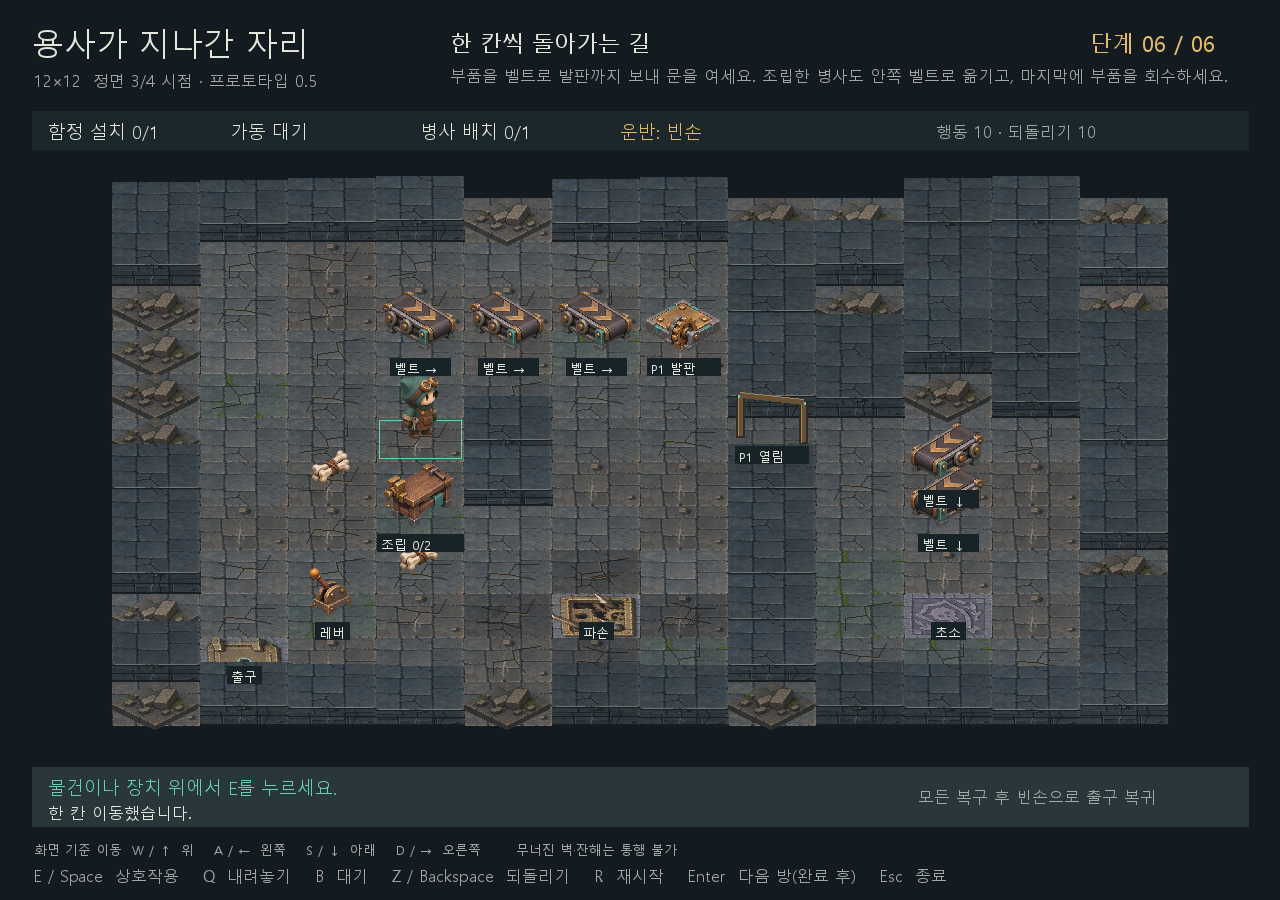
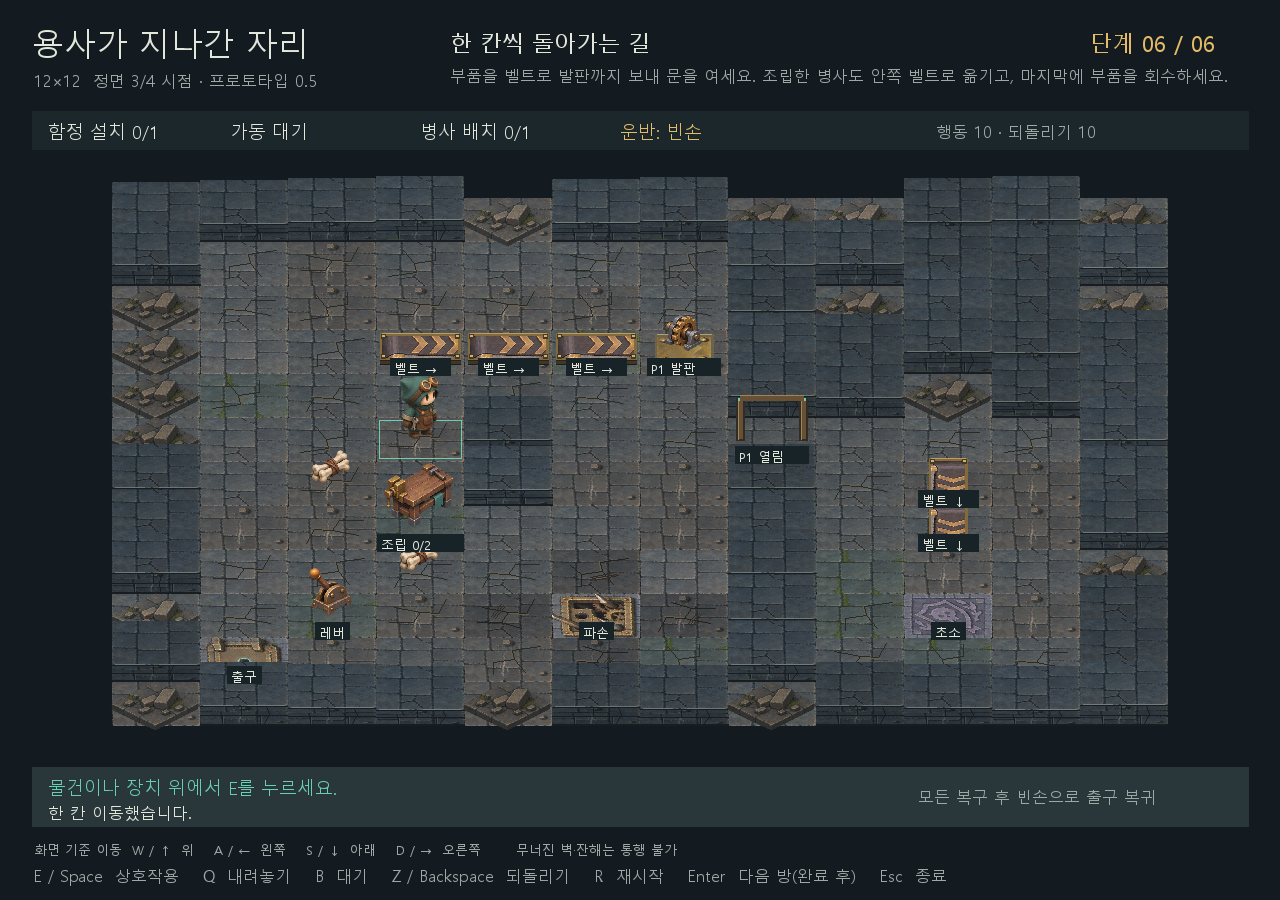
feat: align conveyor and plate surfaces with front-facing tiles

Changed region(s): [[0.2812, 0.3111, 0.5625, 0.4044], [0.6875, 0.4667, 0.7812, 0.5911], [0.5938, 0.4356, 0.625, 0.4667]]

diff --git a/game/devices_view.py b/game/devices_view.py
@@ -1,0 +1,71 @@
+"""기존 장치 상면을 정면 격자에 맞추는 표시 전용 부품."""
+
+
+BELT_SURFACE = ((164, 79), (206, 103), (84, 179), (40, 153))
+PLATE_SURFACE = ((128, 63), (203, 104), (128, 145), (52, 104))
+QUARTER_TURNS = {"up": 0, "right": 1, "down": 2, "left": 3}
+
+
+def _rectangle(p, left, bottom, right, top, color):
+    p.draw_rectangle(round(left), round(bottom), round(right), round(top),
+                     *color, filled=True)
+
+
+def _platform(p, sx, sy, width, height, rise, frame, face):
+    """지면 기준 앞면과 얇은 금속 테두리를 그리고 상면의 네 꼭짓점을 반환한다."""
+    left, right = sx - width / 2, sx + width / 2
+    baseline = sy - height / 2
+    bottom, top = baseline + rise, sy + height / 2 + rise
+    _rectangle(p, left, baseline, right, bottom, face)
+    _rectangle(p, left, bottom, right, top, frame)
+    p.draw_line(round(left), round(baseline), round(right), round(baseline), 25, 30, 29)
+    inset = 2
+    corners = ((left + inset, top - inset), (right - inset, top - inset),
+               (right - inset, bottom + inset), (left + inset, bottom + inset))
+    return corners, (left, bottom, right, top)
+
+
+def _bolts(p, bounds):
+    left, bottom, right, top = bounds
+    for x, y in ((left + 3, top - 3), (right - 3, top - 3),
+                 (right - 3, bottom + 3), (left + 3, bottom + 3)):
+        _rectangle(p, x - 2, y - 2, x + 2, y + 2, (67, 57, 40))
+        _rectangle(p, x - 1, y, x + 1, y + 1, (204, 177, 111))
+
+
+def draw_belt(art, direction, sx, sy, width, height):
+    """화살표와 실제 운반 방향을 화면의 상하좌우에 일치시킨다."""
+    import pico2d.pico2d as p
+
+    turns = QUARTER_TURNS[direction]
+    horizontal = direction in ("left", "right")
+    belt_width = width * (0.90 if horizontal else 0.44)
+    belt_height = height * (0.58 if horizontal else 0.90)
+    corners, bounds = _platform(p, sx, sy, belt_width, belt_height, 5,
+                                (132, 105, 61), (63, 54, 40))
+    # 원본 NE 화살표의 먼 쪽을 위로 맞춘 뒤 꼭짓점 대응만 90도씩 회전한다.
+    target = corners[turns:] + corners[:turns]
+    art.quad("conveyor_ne", BELT_SURFACE, target)
+    left, bottom, right, top = bounds
+    p.draw_line(round(left + 2), round(top), round(right - 2), round(top),
+                190, 157, 91)
+    p.draw_line(round(left), round(bottom - 1), round(right), round(bottom - 1),
+                40, 35, 28)
+    _bolts(p, bounds)
+
+
+def draw_plate(art, pressed, sx, sy, width, height):
+    """같은 금속 상면의 높이와 전면 표시등으로 발판 눌림을 구분한다."""
+    import pico2d.pico2d as p
+
+    rise = 3 if pressed else 9
+    corners, bounds = _platform(p, sx, sy, width * 0.65, height * 0.65,
+                                rise, (108, 99, 76), (65, 69, 64))
+    tint = (211, 235, 220) if pressed else (255, 255, 255)
+    art.quad("plate_up", PLATE_SURFACE, corners, tint)
+    left, bottom, right, top = bounds
+    p.draw_line(round(left + 2), round(top), round(right - 2), round(top),
+                178, 160, 112)
+    indicator = (77, 213, 184) if pressed else (65, 77, 70)
+    for x in (left + 5, right - 11):
+        _rectangle(p, x, bottom - 2, x + 6, bottom, indicator)

diff --git a/game/view.py b/game/view.py
@@ -10,6 +10,7 @@ from game.model import Game
 from game.art import Art
 from game.projection import BoardProjection
 from game.masonry import draw_wall
+from game.devices_view import draw_belt, draw_plate
 from game.scenery import draw_scars, draw_tinted, floor_style, wall_style
 
 WIDTH, HEIGHT = 1280, 900
@@ -134,18 +135,18 @@ class View:
         color = TEAL if status == "open" else GOLD if status == "held" else RED
         left, right, height = sx - 80 * scale, sx + 80 * scale, 110 * scale
         rust, edge = (104, 80, 53), (158, 132, 89)
-        for x, base in ((left, sy + 8 * scale), (right, sy - 8 * scale)):
+        for x, base in ((left, sy), (right, sy)):
             box(x - 4, base - 2, x + 4, base + height - 8 * scale, (49, 44, 37))
             box(x - 2, base, x + 2, base + height - 10 * scale, rust)
             line(x - 2, base, x - 2, base + height - 10 * scale, edge)
             box(x - 2, base + height - 15 * scale, x + 2, base + height - 8 * scale, color)
         for offset in range(-2, 3):
-            line(left, sy + height + offset, right, sy + height - 16 * scale + offset, rust)
-        line(left, sy + height + 3, right, sy + height - 16 * scale + 3, edge)
+            line(left, sy + height - 8 * scale + offset, right, sy + height - 8 * scale + offset, rust)
+        line(left, sy + height - 8 * scale + 3, right, sy + height - 8 * scale + 3, edge)
         if status != "open":
             for fraction in (0.2, 0.4, 0.6, 0.8):
                 x = left + (right - left) * fraction
-                y = sy + (8 - 16 * fraction) * scale
+                y = sy
                 line(x, y, x, y + height - 8 * scale, rust)
                 line(x + 1, y, x + 1, y + height - 8 * scale, edge)
 
@@ -235,8 +236,10 @@ class View:
         for _, _, sprite, sx, sy in sorted(objects, key=lambda obj: obj[:2]):
             if sprite.startswith("belt_"):
                 direction = sprite.removeprefix("belt_")
-                self.art.draw("conveyor_ne" if direction in ("up", "left") else "conveyor_se",
-                              sx, sy, scale, flip=direction in ("left", "down"))
+                draw_belt(self.art, direction, sx, sy, projection.cell_width, projection.cell_height)
+                continue
+            if sprite in ("plate_up", "plate_down"):
+                draw_plate(self.art, sprite == "plate_down", sx, sy, projection.cell_width, projection.cell_height)
                 continue
             if sprite.startswith("gate_"):
                 self.gate(sx, sy, scale, sprite.removeprefix("gate_"))

diff --git a/game/art.py b/game/art.py
@@ -27,14 +27,18 @@ class Art:
 
     def ground(self, name, sx, sy, width, height, tint=(255, 255, 255)):
         """바닥 상면만 새 직사각형 격자에 투영한다. 원본 PNG는 변경하지 않는다."""
-        entry = self.manifest["sprites"][name]
-        atlas = self.manifest["atlases"][entry["atlas"]]
-        left, bottom, _, _ = entry["clip_rect_pico2d"]
-        top = atlas["height"] - bottom - entry["height"]
         # 마름모의 북·동·남·서 꼭짓점을 새 칸의 좌상·우상·우하·좌하에 대응한다.
         source = ((128, 104), (240, 160), (128, 216), (16, 160))
         target = ((sx - width / 2, sy + height / 2), (sx + width / 2, sy + height / 2),
                   (sx + width / 2, sy - height / 2), (sx - width / 2, sy - height / 2))
+        self.quad(name, source, target, tint)
+
+    def quad(self, name, source, target, tint=(255, 255, 255)):
+        """원본 이미지의 지정한 사각 면을 화면의 네 꼭짓점에 대응시킨다."""
+        entry = self.manifest["sprites"][name]
+        atlas = self.manifest["atlases"][entry["atlas"]]
+        left, bottom, _, _ = entry["clip_rect_pico2d"]
+        top = atlas["height"] - bottom - entry["height"]
         vertices = (p.SDL_Vertex * 4)()
         output_height = ctypes.c_int()
         p.SDL_GetRendererOutputSize(p.renderer, None, ctypes.byref(output_height))
@@ -45,7 +49,7 @@ class Art:
             vertex.tex_coord = p.SDL_FPoint((left + u) / atlas["width"], (top + v) / atlas["height"])
         indices = (ctypes.c_int * 6)(0, 1, 2, 0, 2, 3)
         if p.SDL_RenderGeometry(p.renderer, self.atlases[entry["atlas"]].texture, vertices, 4, indices, 6) != 0:
-            raise RuntimeError("정면 시점의 바닥을 그리지 못했습니다.")
+            raise RuntimeError("정면 시점의 표면을 그리지 못했습니다.")
 
     def draw(self, name, sx, sy, scale, flip=False):
         """PNG 좌상단 기준점을 pico2d의 위쪽 +y 화면 좌표로 변환한다."""
